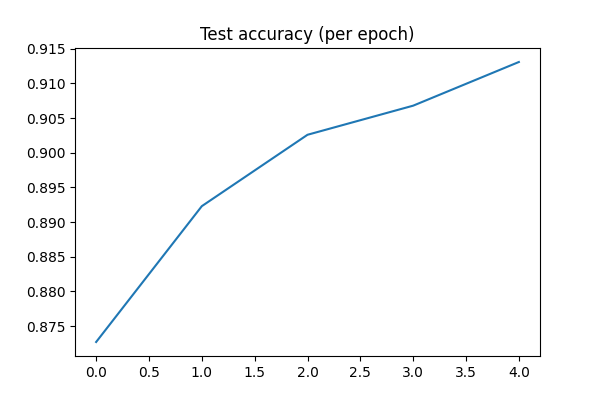
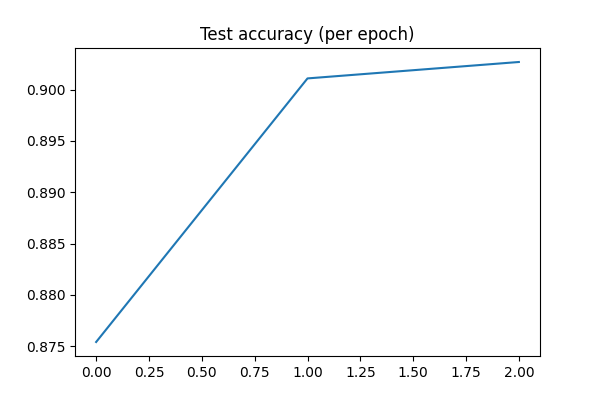
Add CLI entrypoint and project commands

diff --git a/src/fashionmnist_classification_mlops/cli.py b/src/fashionmnist_classification_mlops/cli.py
@@ -1,0 +1,31 @@
+from __future__ import annotations
+
+from pathlib import Path
+
+import typer
+
+from fashionmnist_classification_mlops.data import preprocess
+from fashionmnist_classification_mlops.train import train
+
+app = typer.Typer(help="Fashion-MNIST Classification (MLOps) CLI")
+
+
+@app.command()
+def data(raw_dir: Path, processed_dir: Path) -> None:
+    """Download and preprocess Fashion-MNIST into tensors."""
+    preprocess(raw_dir=raw_dir, processed_dir=processed_dir)
+
+
+@app.command()
+def train_model(
+    lr: float = typer.Option(1e-3, help="Learning rate"),
+    batch_size: int = typer.Option(64, help="Batch size"),
+    epochs: int = typer.Option(5, help="Number of epochs"),
+    model_type: str = typer.Option("cnn", help="Model type: cnn or mlp"),
+) -> None:
+    """Train a model on the processed Fashion-MNIST dataset."""
+    train(lr=lr, batch_size=batch_size, epochs=epochs, model_type=model_type)
+
+
+if __name__ == "__main__":
+    app()
